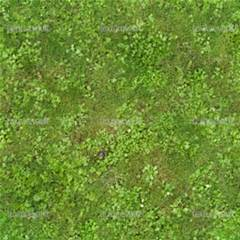
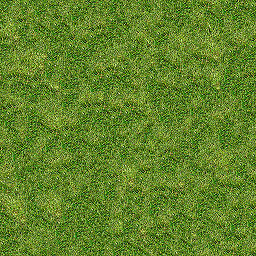
- Map and box working
- Texture implementation
- Low quality texture added

Need to add zoom and to fix the map loop ;)

diff --git a/LiveIT2.1/Form2.cs b/LiveIT2.1/Form2.cs
@@ -16,47 +16,71 @@ namespace LiveIT2._1
         {
             InitializeComponent();
         }
-        Bitmap _creature;
-        Bitmap _textureGrass;
         Graphics g;
-        Rectangle _area;
-        Box[,] _boxes;
+        Graphics _screenGraphic;
+
+        Box[] _boxes;
 
         bool right;
         bool left;
         bool up;
         bool down;
+        bool  _clicked = false;
+        bool _changeTexture = false;
+
+        string _selectedTexture;
 
         Timer t;
+
         Bitmap _background;
-        Graphics _screenGraphic;
+        Bitmap _textureGrass, _textureWater, _textureDirt, _textureSnow, _textureDesert;
+
         Map _map;
-
-        Rectangle[] rects;
-        Rectangle[] terrainRects;
-
+  
         Size _selectionCursorWidth;
         Rectangle _screen;
+        Rectangle _mouseRect;
+
+        Dictionary<string, Bitmap> _texturesDictionnary;
+
+        int _boxWidth;
 
         private void Form1_Load( object sender, EventArgs e )
         {
             this.DoubleBuffered = true;
-
+            _selectedTexture = "grass";
             _background = new Bitmap( this.Width, this.Height );
-            _area = new Rectangle( this.Width / 2, this.Height / 2, 100, 100 );
-            _map = new Map( 15000 );
+            _map = new Map( 1500 );
             _textureGrass = new Bitmap(@"..\..\..\assets\Grass.jpg");
+            _textureWater = new Bitmap( @"..\..\..\assets\Water.jpg" );
+            _textureDirt = new Bitmap( @"..\..\..\assets\Dirt.jpg" );
+            _textureSnow = new Bitmap( @"..\..\..\assets\Snow.jpg" );
+            _textureDesert = new Bitmap( @"..\..\..\assets\Desert.jpg" );
 
-            _screen = new Rectangle(0, 0, this.Width, this.Height);
-
+            _boxWidth = 200;
             _boxes = _map.Boxes;
-            terrainRects = new Rectangle[1000];
-            _map.Createmap( 200 );
+
+            _map.Createmap( _boxWidth );
+
+            _screen = new Rectangle( 0, 0, this.Width, this.Height );
+            _mouseRect = new Rectangle( 0, 0, 100, 100 );
+
+
             g = this.CreateGraphics();
             _screenGraphic = Graphics.FromImage( _background );
 
             _selectionCursorWidth = new Size(50, 50);
             this.MouseWheel += new MouseEventHandler(T_mouseWheel);
+
+            _texturesDictionnary = new Dictionary<string, Bitmap>()
+	            {
+	                {"grass", _textureGrass},
+	                {"water", _textureWater},
+	                {"dirt", _textureDirt},
+	                {"snow", _textureSnow},
+                    {"desert", _textureDesert}         
+	            };
+
 
             t = new Timer();
             t.Interval = 10;
@@ -88,38 +112,54 @@ namespace LiveIT2._1
 
         private void t_Tick( object sender, EventArgs e )
         {
-            Rectangle _rMouse = new Rectangle(new Point(Cursor.Position.X, Cursor.Position.Y), _selectionCursorWidth);
             if( up ) { MoveRectangle( Direction.Up ); }
             if( left ) { MoveRectangle( Direction.Left ); }
             if( down ) { MoveRectangle( Direction.Down ); }
             if( right ) { MoveRectangle( Direction.Right ); }
-            g.DrawImage( Draw(), new Point( 0, 0 ) );
             
-
+            g.DrawImage( Draw(), new Point( 0, 0 ) );
+                      
         }
 
         public enum Direction { Up, Down, Right, Left };
         public void MoveRectangle( Direction d )
         {
             int _speed = 30;
-            for( int i = 0; i <  _map.Grid.Length; i++ )
+            for( int i = 0; i < _boxes.Length; i++ )
             {
-                if (d == Direction.Down) { _map.Grid[i].Y -= _speed; }
-                if (d == Direction.Up) { _map.Grid[i].Y += _speed; }
-                if (d == Direction.Right) { _map.Grid[i].X -= _speed; }
-                if (d == Direction.Left) { _map.Grid[i].X += _speed; }
+                if( d == Direction.Down ) { _boxes[i].Y -= _speed;  }
+                if( d == Direction.Up ) { _boxes[i].Y += _speed;  }
+                if( d == Direction.Right ) { _boxes[i].X -= _speed;  }
+                if( d == Direction.Left ) { _boxes[i].X += _speed; }
             }
         }
         public Bitmap Draw()
         {
-
-            _screenGraphic.Clear( Color.FromArgb( 255, Color.Blue ) );
-            for( int i = 0; i < _map.Grid.Length; i++ )
+            Rectangle _rMouse = new Rectangle( new Point( Cursor.Position.X, Cursor.Position.Y ), _selectionCursorWidth );
+            _screenGraphic.Clear( Color.FromArgb( 255, Color.Black ) );
+            
+            for( int i = 0; i < _boxes.Length; i++ )
             {
-                    _screenGraphic.DrawImage(_textureGrass, _map.Grid[i]);
-                    //_screenGraphic.DrawString(_map.Grid[i].X.ToString() + "\n" + _map.Grid[i].Y.ToString(), new Font("Arial", 10f), Brushes.Black, new Point(_map.Grid[i].X, _map.Grid[i].Y));
                 
-            }   
+                if( _boxes[i].Rectangle.IntersectsWith( _screen ) )
+                {
+                    if( _boxes[i].Rectangle.IntersectsWith( _rMouse ) && _boxes[i].Rectangle.IntersectsWith( _screen ) )
+                    {
+                        _screenGraphic.DrawRectangle( new Pen( Brushes.Red, 10f ), new Rectangle(new Point(_boxes[i].Rectangle.X,_boxes[i].Rectangle.Y ), new Size(_boxes[i].Rectangle.Width,_boxes[i].Rectangle.Width)  ));
+                        
+                        if( _changeTexture )
+                        {
+                            //G.FillRectangle( Brushes.DimGray, _map.Grid[i] );
+                            _boxes[i].Texture = _selectedTexture;
+                        }
+                    }
+                    
+                    _screenGraphic.DrawImage( _texturesDictionnary[_boxes[i].Texture], _boxes[i].Rectangle );
+                }
+                                    
+            }
+
+            _changeTexture = false;
             return _background;
         }
 
@@ -137,6 +177,36 @@ namespace LiveIT2._1
             if( e.KeyCode == Keys.Q ) { left = false; }
             if( e.KeyCode == Keys.S ) { down = false; }
             if( e.KeyCode == Keys.D ) { right = false; }
+        }
+
+        private void Form1_MouseClick( object sender, MouseEventArgs e )
+        {
+            _changeTexture = true;
+        }
+
+        private void _waterButton_Click( object sender, EventArgs e )
+        {
+            _selectedTexture = "water";
+        }
+
+        private void _dirtButton_Click( object sender, EventArgs e )
+        {
+            _selectedTexture = "dirt";
+        }
+
+        private void _snowButton_Click( object sender, EventArgs e )
+        {
+            _selectedTexture = "snow";
+        }
+
+        private void _desertButton_Click( object sender, EventArgs e )
+        {
+            _selectedTexture = "desert";
+        }
+
+        private void _grassButton_Click( object sender, EventArgs e )
+        {
+            _selectedTexture = "grass";
         }
 
     }

diff --git a/LiveIT2.1/Form2.Designer.cs b/LiveIT2.1/Form2.Designer.cs
@@ -28,13 +28,74 @@
         /// </summary>
         private void InitializeComponent()
         {
+            this._waterButton = new System.Windows.Forms.Button();
+            this._dirtButton = new System.Windows.Forms.Button();
+            this._snowButton = new System.Windows.Forms.Button();
+            this._desertButton = new System.Windows.Forms.Button();
+            this._grassButton = new System.Windows.Forms.Button();
             this.SuspendLayout();
+            // 
+            // _waterButton
+            // 
+            this._waterButton.Location = new System.Drawing.Point(13, 85);
+            this._waterButton.Name = "_waterButton";
+            this._waterButton.Size = new System.Drawing.Size(75, 23);
+            this._waterButton.TabIndex = 0;
+            this._waterButton.Text = "Water";
+            this._waterButton.UseVisualStyleBackColor = true;
+            this._waterButton.Click += new System.EventHandler(this._waterButton_Click);
+            // 
+            // _dirtButton
+            // 
+            this._dirtButton.Location = new System.Drawing.Point(13, 135);
+            this._dirtButton.Name = "_dirtButton";
+            this._dirtButton.Size = new System.Drawing.Size(75, 23);
+            this._dirtButton.TabIndex = 1;
+            this._dirtButton.Text = "Dirt";
+            this._dirtButton.UseVisualStyleBackColor = true;
+            this._dirtButton.Click += new System.EventHandler(this._dirtButton_Click);
+            // 
+            // _snowButton
+            // 
+            this._snowButton.Location = new System.Drawing.Point(13, 186);
+            this._snowButton.Name = "_snowButton";
+            this._snowButton.Size = new System.Drawing.Size(75, 23);
+            this._snowButton.TabIndex = 2;
+            this._snowButton.Text = "Snow";
+            this._snowButton.UseVisualStyleBackColor = true;
+            this._snowButton.Click += new System.EventHandler(this._snowButton_Click);
+            // 
+            // _desertButton
+            // 
+            this._desertButton.Location = new System.Drawing.Point(13, 236);
+            this._desertButton.Name = "_desertButton";
+            this._desertButton.Size = new System.Drawing.Size(75, 23);
+            this._desertButton.TabIndex = 3;
+            this._desertButton.Text = "Desert";
+            this._desertButton.UseVisualStyleBackColor = true;
+            this._desertButton.Click += new System.EventHandler(this._desertButton_Click);
+            // 
+            // _grassButton
+            // 
+            this._grassButton.Location = new System.Drawing.Point(13, 286);
+            this._grassButton.Name = "_grassButton";
+            this._grassButton.Size = new System.Drawing.Size(75, 23);
+            this._grassButton.TabIndex = 4;
+            this._grassButton.Text = "Grass";
+            this._grassButton.UseVisualStyleBackColor = true;
+            this._grassButton.Click += new System.EventHandler(this._grassButton_Click);
             // 
             // Form1
             // 
             this.AutoScaleDimensions = new System.Drawing.SizeF(6F, 13F);
             this.AutoScaleMode = System.Windows.Forms.AutoScaleMode.Font;
             this.ClientSize = new System.Drawing.Size(984, 962);
+            this.Controls.Add(this._grassButton);
+            this.Controls.Add(this._desertButton);
+            this.Controls.Add(this._snowButton);
+            this.Controls.Add(this._dirtButton);
+            this.Controls.Add(this._waterButton);
+            this.KeyPreview = true;
             this.Name = "Form1";
             this.StartPosition = System.Windows.Forms.FormStartPosition.WindowsDefaultBounds;
             this.Text = "Form1";
@@ -42,11 +103,18 @@
             this.Load += new System.EventHandler(this.Form1_Load);
             this.KeyDown += new System.Windows.Forms.KeyEventHandler(this.Form1_KeyDown);
             this.KeyUp += new System.Windows.Forms.KeyEventHandler(this.Form1_KeyUp);
+            this.MouseClick += new System.Windows.Forms.MouseEventHandler(this.Form1_MouseClick);
             this.ResumeLayout(false);
 
         }
 
         #endregion
+
+        private System.Windows.Forms.Button _waterButton;
+        private System.Windows.Forms.Button _dirtButton;
+        private System.Windows.Forms.Button _snowButton;
+        private System.Windows.Forms.Button _desertButton;
+        private System.Windows.Forms.Button _grassButton;
 
     }
 }

diff --git a/LiveIT2.1/Map.cs b/LiveIT2.1/Map.cs
@@ -12,6 +12,9 @@ namespace LiveIT2._1
 
         Rectangle[] _map;
         Box[,] _boxes;
+        Box[] _boxArray;
+
+        
 
         int _size;
         int _boxwidth;
@@ -19,6 +22,7 @@ namespace LiveIT2._1
         public Map( int size )
         {
             _map = new Rectangle[size];
+            _boxArray = new Box[size];
             _boxes = new Box[size, size];
             _size = size;
         }
@@ -28,9 +32,9 @@ namespace LiveIT2._1
             get { return _map; }
         }
 
-        public Box[,] Boxes
+        public Box[] Boxes
         {
-            get { return _boxes; }
+            get { return _boxArray; }
         }
 
         public int BoxWidth
@@ -46,14 +50,17 @@ namespace LiveIT2._1
         {
             int _pos = 0;
             _boxwidth = boxWidth;
-            for( int i = 0; i < _size; i += boxWidth )
+            for( int i = 0; i < _size * boxWidth; i += boxWidth )
             {
-                for( int j = 0; j < _size; j += boxWidth )
+                for( int j = 0; j < _size ; j += boxWidth )
                 {
                     if( _pos != _size )
                     {
-                        _map[_pos++] = new Rectangle( i, j, boxWidth, boxWidth );
-                        _boxes[i, j] = new Box( i, j, boxWidth );
+                        //_map[_pos++] = new Rectangle( i, j, boxWidth, boxWidth );
+                        //_boxes[i, j] = new Box( i, j, boxWidth );
+                   
+                        _boxArray[_pos++] = new Box( i, j, boxWidth );
+                        
                     }
 
                 }

diff --git a/LiveIT2.1/Box.cs b/LiveIT2.1/Box.cs
@@ -1,5 +1,6 @@
 using System;
 using System.Collections.Generic;
+using System.Drawing;
 using System.Linq;
 using System.Text;
 using System.Threading.Tasks;
@@ -12,7 +13,7 @@ namespace LiveIT2._1
         int _x;
         int _y;
         int _width;
-
+        Rectangle _rectangle;
         string _texture;
 
         public Box( int x, int y, int width )
@@ -21,28 +22,39 @@ namespace LiveIT2._1
             _y = y;
             _width = width;
             _texture = "grass";
+            _rectangle = new Rectangle( x, y, width, width );
         }
 
         public void SetTexture( string textureName )
         {
-
             _texture = textureName;
+        }
+
+        public Rectangle Rectangle
+        {
+            get { return _rectangle; }
+            set { _rectangle = value; }
         }
 
         public string Texture
         {
             get { return _texture; }
+            set { _texture = value; }
         }
 
         public int X
         {
             get { return _x; }
-            set { _x = value; }
+            set { _x = value;
+            _rectangle.X = value;
+        }
         }
         public int Y
         {
             get { return _y; }
-            set { _y = value; }
+            set { _y = value;
+            _rectangle.Y = value;
+            }
         }
         public int Width
         {
